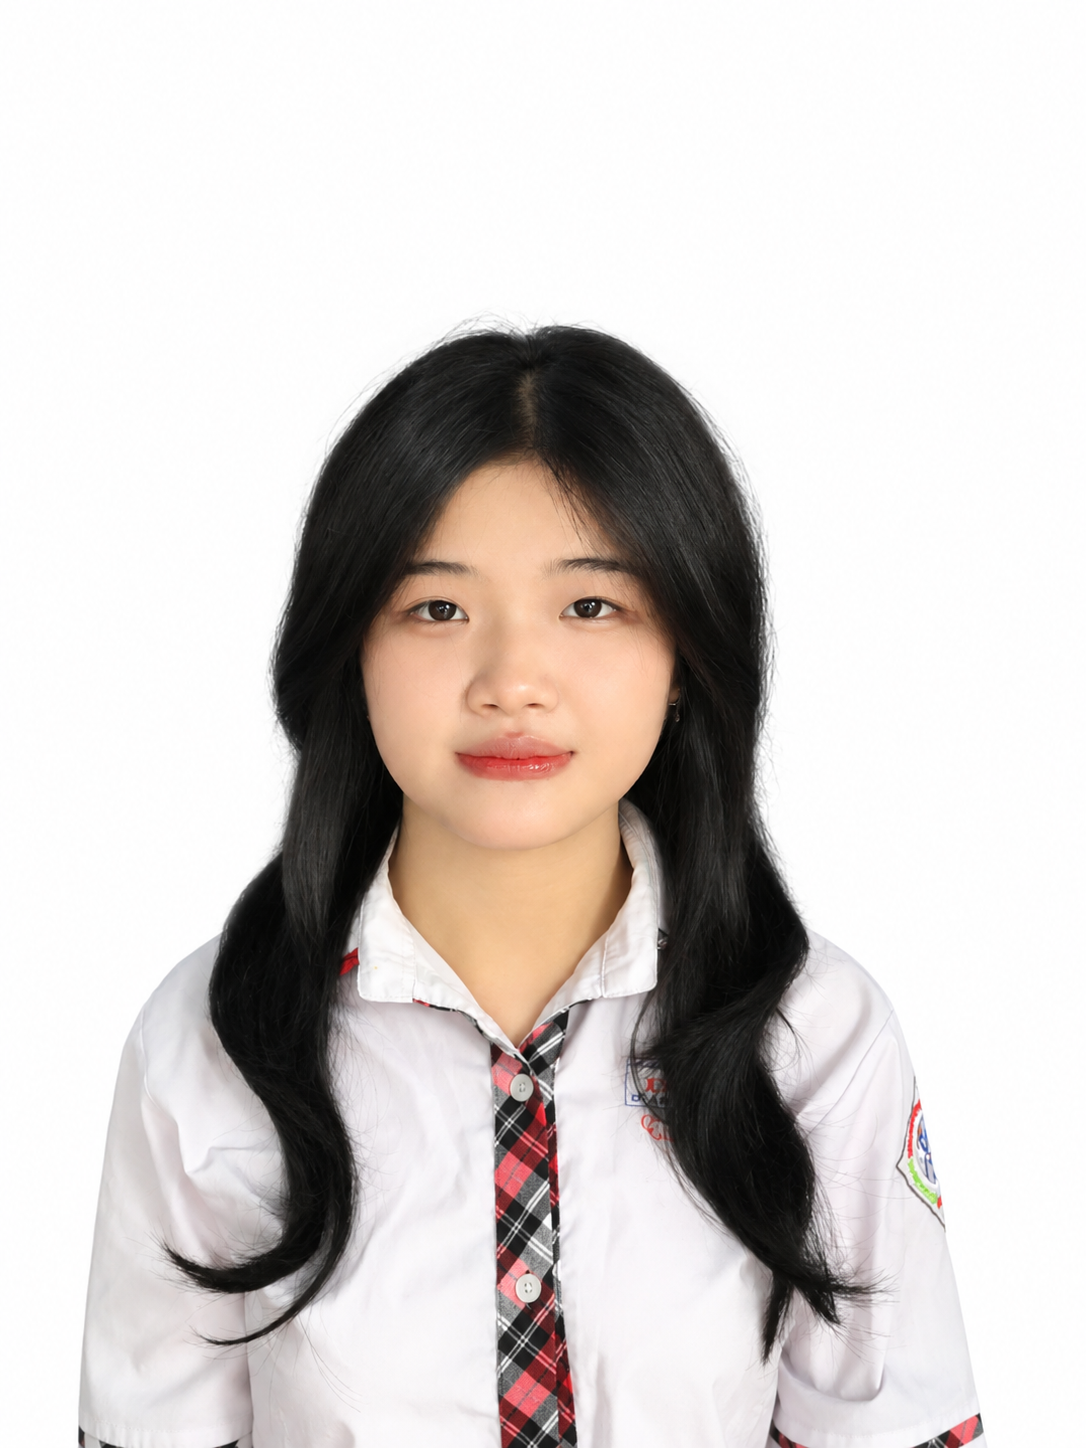
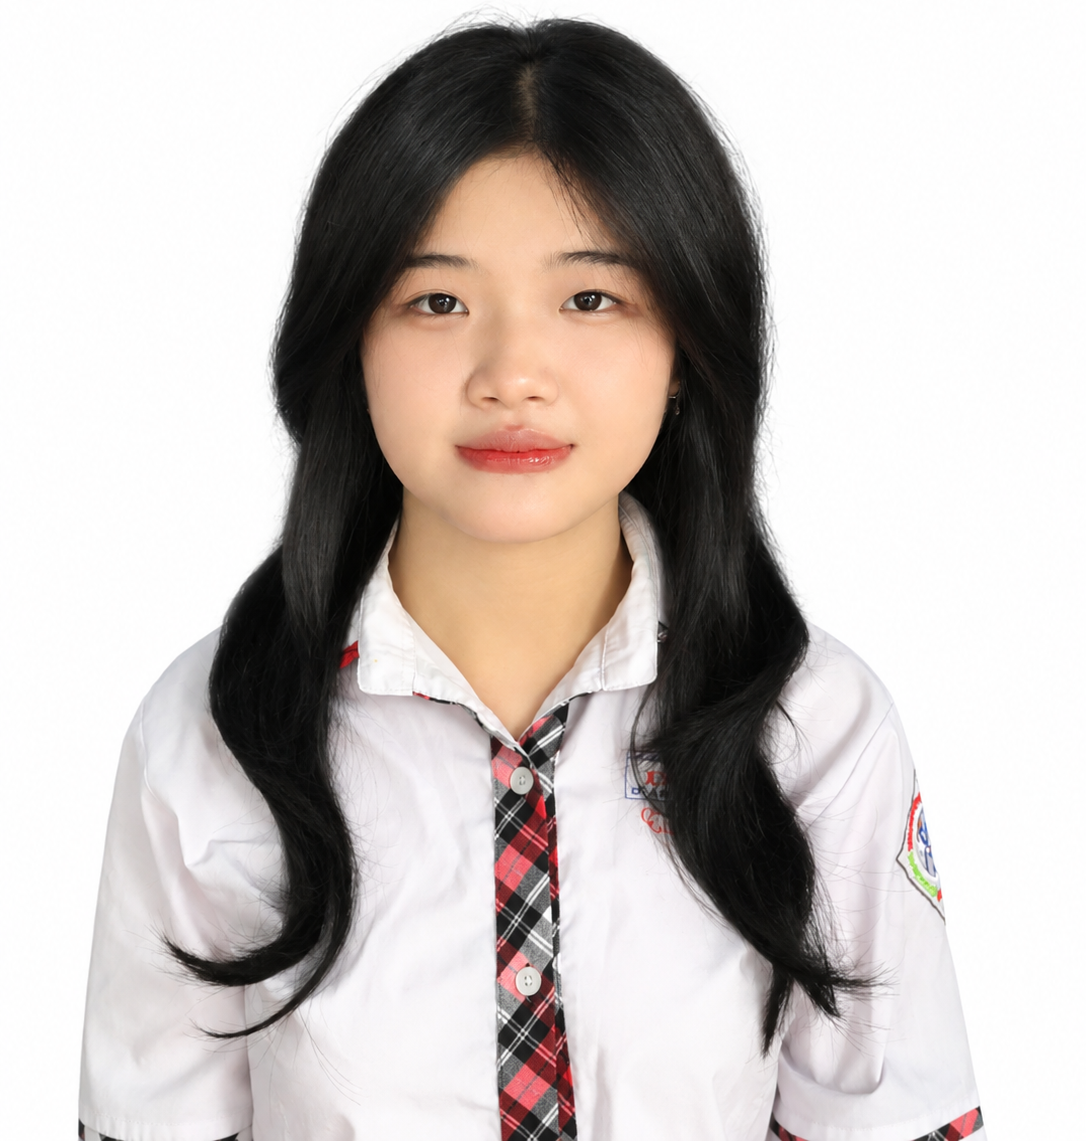
Deploy latest contact portrait crop

diff --git a/docs/IMPLEMENTATION_PLAN.md b/docs/IMPLEMENTATION_PLAN.md
@@ -61,5 +61,6 @@ Follow `docs/MASTER_PROMPT.md` with the later typography amendment. Keep the exi
 | CP-54 Weekly media order | Render posters before videos when both are available, leave single media items at the start of the grid, preserve the W5 series, and verify the affected weeks on mobile and desktop. |
 | CP-55 Production deployment | Include the pending avatar and ingredient-label edits, push CP-43–CP-54 to `origin/main`, resolve Git LFS pointers during Vercel builds if needed, and verify deployment status, public routes, media bytes and playback. |
 | CP-56 Cross-device phase video playback | Identify incompatible source codec, re-encode affected phase video to H.264/AAC MP4, verify every video stream and full decode, deploy through the existing GitHub/Vercel path, and check the public media response and browser playback. |
+| CP-57 Latest production assets | Deploy the current tracked contact portrait crop, remove its unused JPG predecessor, keep untracked source assets outside the release, and verify the contact page and image on production. |
 
 After each completed checkpoint: run its verification gate, write observed results, update status, commit focused changes. Never commit `data/runtime`, `.env`, `.next`, `node_modules`, or the large strategy PDF.

diff --git a/docs/DECISIONS.md b/docs/DECISIONS.md
@@ -350,3 +350,8 @@
 - Inspect all ten public MP4 files before changing the player. Nine have H.264 video and AAC-LC audio; only W3 uses HEVC (`hvc1`) video with AAC-LC audio. Its container is valid, but HEVC playback support varies by device and browser, matching the reported audio-only symptom.
 - Re-encode only W3 to H.264 High Level 4.0, 8-bit `yuv420p`, keep its AAC audio stream, and move MP4 metadata to the front. Preserve the existing public URL and campaign content mapping.
 - Keep the supplied source assets under `anhweb/` untouched. Document the required export format for future clips.
+
+## CP-57 latest production assets (2026-11-07)
+
+- The current website diff contains a shorter crop of Trần Thị Tường Vy's public PNG and deletion of its unused JPG predecessor. `data/content/team.json` already points to the PNG, and no source references the JPG.
+- Deploy these tracked public asset changes. Keep the untracked `anhweb/` source photos, logo, and videos out of the commit because their site-ready copies were handled in earlier checkpoints.
